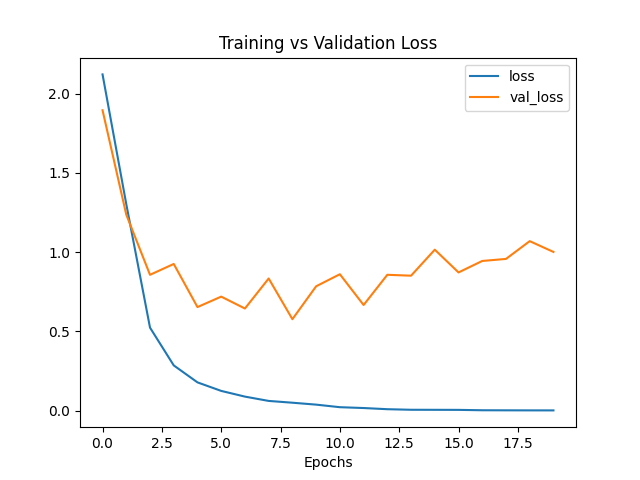
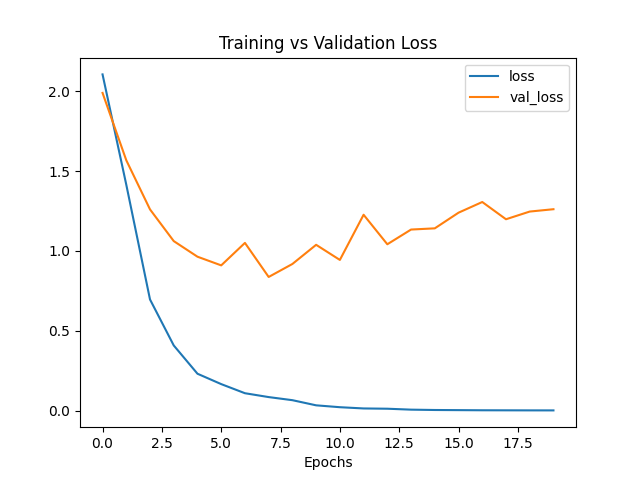
added file for cnn evaluation

diff --git a/cnn.py b/cnn.py
@@ -10,13 +10,11 @@ import os
 # get datasets directories
 train_dir = os.path.join('data', 'train')
 val_dir = os.path.join('data', 'val')
-test_dir = os.path.join('data', 'test')
 
 # dataset loader parameters
 batch_size = 64
 img_height = 128
 img_width = 147
-
 
 # load training dataset
 train_ds = image_dataset_from_directory(
@@ -31,16 +29,6 @@ train_ds = image_dataset_from_directory(
 # load validation dataset
 val_ds = image_dataset_from_directory(
     val_dir,
-    labels='inferred',
-    label_mode='categorical',
-    image_size=(img_height,img_width),
-    seed=123,
-    batch_size=batch_size
-)
-
-# load test dataset
-test_ds = image_dataset_from_directory(
-    test_dir,
     labels='inferred',
     label_mode='categorical',
     image_size=(img_height,img_width),
@@ -67,15 +55,16 @@ model = Sequential([
   layers.Dense(10, activation='softmax')
 ])
 
+# print model structure
+print(model.summary())
+
 # compile model
 model.compile(
     optimizer='adam',
     loss='categorical_crossentropy',
     metrics=['accuracy'])
 
-print(model.summary())
-
-# fit model
+# fit model to data
 epochs=20
 callback = EarlyStopping(monitor='loss', patience=5)
 history = model.fit(
@@ -85,8 +74,13 @@ history = model.fit(
   callbacks=[callback]
 )
 
+# save model weights to HDF5
+model.save("model.h5")
+
 # plot training and validation loss
 history_frame = pd.DataFrame(history.history)
 history_frame.loc[:, ['loss', 'val_loss']].plot(title='Training vs Validation Loss')
 plt.xlabel('Epochs')
 plt.savefig(os.path.join('results', 'loss.png'))
+
+

diff --git a/evaluate.py b/evaluate.py
@@ -1,0 +1,49 @@
+import os
+import tensorflow as tf
+from keras.preprocessing.image import load_img, img_to_array
+from keras.models import load_model
+from keras.preprocessing.image import load_img
+from tensorflow.keras.preprocessing import image_dataset_from_directory
+from preprocess_files import files_dict
+
+# get datasets directories
+test_dir = os.path.join('data', 'test')
+
+# dataset loader parameters
+batch_size = 64
+img_height = 128
+img_width = 147
+
+# load test dataset
+test_ds = image_dataset_from_directory(
+    test_dir,
+    labels='inferred',
+    label_mode='categorical',
+    image_size=(img_height,img_width),
+    seed=123,
+    batch_size=batch_size
+)
+
+# load image from test set
+img_path = 'data' + os.sep + 'test' + os.sep + 'id11184' + os.sep + '1.png'
+img = load_img(img_path)
+img.show()
+
+# convert image to numpy array
+img = img.resize((128, 147))
+img = img_to_array(img)
+img = img.reshape(-1,128, 147,3)
+print(img.shape)
+
+# make prediction
+model = load_model('model.h5')
+y_prob = model.predict(img) 
+y_classes = y_prob.argmax(axis=-1)
+print(f'class {y_classes} with probability {y_prob}')
+
+
+
+
+
+
+

diff --git a/audio_analysis.py b/audio_analysis.py
@@ -104,11 +104,8 @@ def preprocess(file):
 
 # check if all audio files have the same sample rates
 sample_rates = get_sample_rates()
-if len(sample_rates) == 1:
-    print(f'\nAll audios have the same sample rate: {sample_rates[0]} kHz')
-else:
-    print("Audios have different sample rates")
-    
+
+
 # get best width for spectrogram images
 best_width = optimal_image_width()
 print('The optimal image width of spectrograms is: ', best_width)
